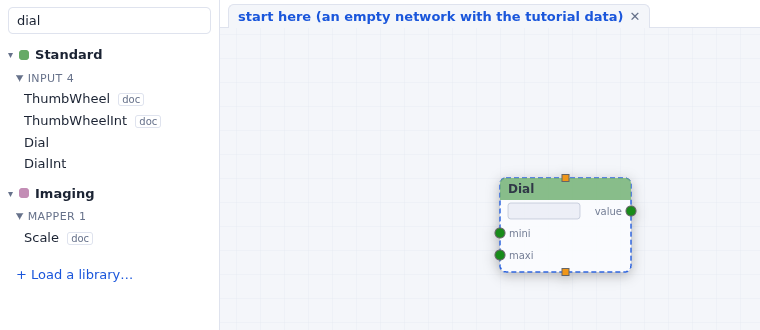
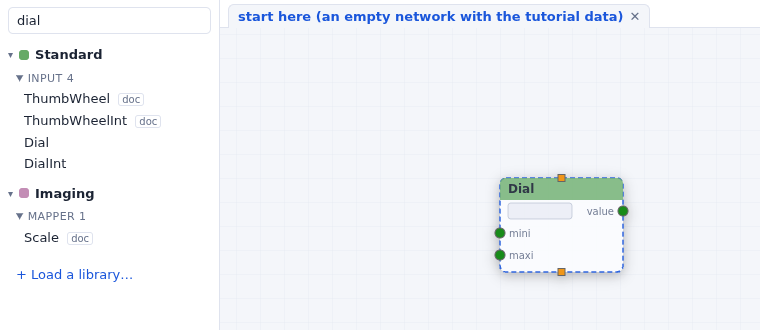
Docs: screenshots remade with Vision's dial and thumbwheel
The screenshots of Nov 13 (13:54) predate the dial and thumbwheel widgets (b5f129d), so Dial,
ThumbWheel and their node widgets showed a number box. Remade with docs/make_screenshots.py:
26 images change (dials, thumbwheels, the palette's counts with the Color Editor; the cage
tutorial's viewer now fits the whole cage, whose vertices the old picture cut off).
- make_screenshots.py: shot() clears the stale "no such network" message that closing the other
  networks behind the page's back can leave in the status line.
- tut-first: the Dial is turned by dragging around it (no more drag handle on a dial).

Changed region(s): [[0.7566, 0.5455, 0.8474, 0.8182], [0.7263, 0.8182, 0.7566, 0.8485], [0.7263, 0.5152, 0.7566, 0.5455]]

diff --git a/docs/src/tut-first.html b/docs/src/tut-first.html
@@ -23,7 +23,7 @@ port show its type.</li>
 that can take a float light up.</li>
 <li>Press <b>Run</b>. The Dial sends its value, print prints it: open the <b>Log</b> under the
 network to read <code>0.0</code>.</li>
-<li>Turn the dial: scroll over the number, drag its &#8644; handle, or type a value. With <b>run on
+<li>Turn the dial: drag around it, scroll over it or over the number, or type a value. With <b>run on
 change</b> checked, each change runs the network again, and print prints the new value.</li>
 </ol>
 <figure>

diff --git a/docs/tut-first.html b/docs/tut-first.html
@@ -63,7 +63,7 @@ port show its type.</li>
 that can take a float light up.</li>
 <li>Press <b>Run</b>. The Dial sends its value, print prints it: open the <b>Log</b> under the
 network to read <code>0.0</code>.</li>
-<li>Turn the dial: scroll over the number, drag its &#8644; handle, or type a value. With <b>run on
+<li>Turn the dial: drag around it, scroll over it or over the number, or type a value. With <b>run on
 change</b> checked, each change runs the network again, and print prints the new value.</li>
 </ol>
 <figure>

diff --git a/docs/make_screenshots.py b/docs/make_screenshots.py
@@ -169,6 +169,9 @@ class Page(object):
 
     def shot(self, name, clip=None, pad=0):
         """Capture the window, or a rectangle {x, y, width, height}, or a CSS selector's box."""
+        # only_this_network() closes the other networks behind the page's back; a request
+        # still pending for one of them leaves this message, which a user never sees
+        self.js("if(/no such network/.test(document.getElementById('status').textContent)) status('')")
         if isinstance(clip, str):
             clip = self.js('DOC.rect(%s)' % json.dumps(clip))
         if clip:
